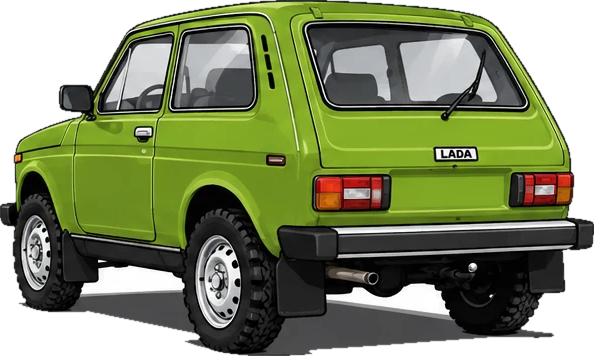
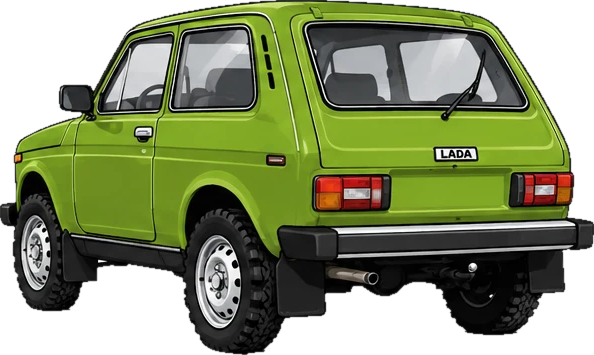
Нива: под машиной больше нет белой полосы тени (вырезка низа)
Claude-Session: https://claude.ai/code/session_011h7oDPmmegoivb4yRZ71Zj

diff --git a/reels/perekupy/kit/img/niva/cut.py b/reels/perekupy/kit/img/niva/cut.py
@@ -1,6 +1,6 @@
 # python cut.py → niva_side.png (сбоку, мордой влево), niva_side_r.png (мордой вправо), niva_34.png (3/4 спереди), niva_34r.png (3/4 сзади):
 # салатовая Нива владельца (10.11, source.webp) без белого фона и серой тени. Фон и тень — нейтрально-серые/белые, заливаем от краёв
-# кадра; диски (тоже серые) внутри чёрных шин и стёкла внутри рамок не достаются. Кайма — срезаем на 1 px.
+# кадра (внизу — и тёмно-серую тень под машиной); диски (тоже серые) внутри чёрных шин и стёкла внутри рамок не достаются. Кайма — срезаем на 1 px.
 import numpy as np
 from PIL import Image
 from scipy import ndimage
@@ -10,6 +10,10 @@ src = np.asarray(Image.open("source.webp").convert("RGB")).astype(int)
 def cut(box, out):
     x0, y0, x1, y1 = box; a = src[y0:y1, x0:x1]
     bg = ((a.max(-1) - a.min(-1)) < 20) & (a.min(-1) > 105)
+    # низ: тень под машиной — серая полоса (~70) отрезала белый зазор под порогом от фона (владелец 11.11: «низ белый»).
+    # Там фоном считаем и тёмно-серое (шины темнее — 0…45); выше ничего не меняем
+    low = np.arange(a.shape[0])[:, None] > .72 * a.shape[0]
+    bg |= low & ((a.max(-1) - a.min(-1)) < 14) & (a.min(-1) > 55)
     lab, _ = ndimage.label(bg)
     edge = set(lab[0]) | set(lab[-1]) | set(lab[:, 0]) | set(lab[:, -1]); edge.discard(0)
     fg = ~np.isin(lab, list(edge))
